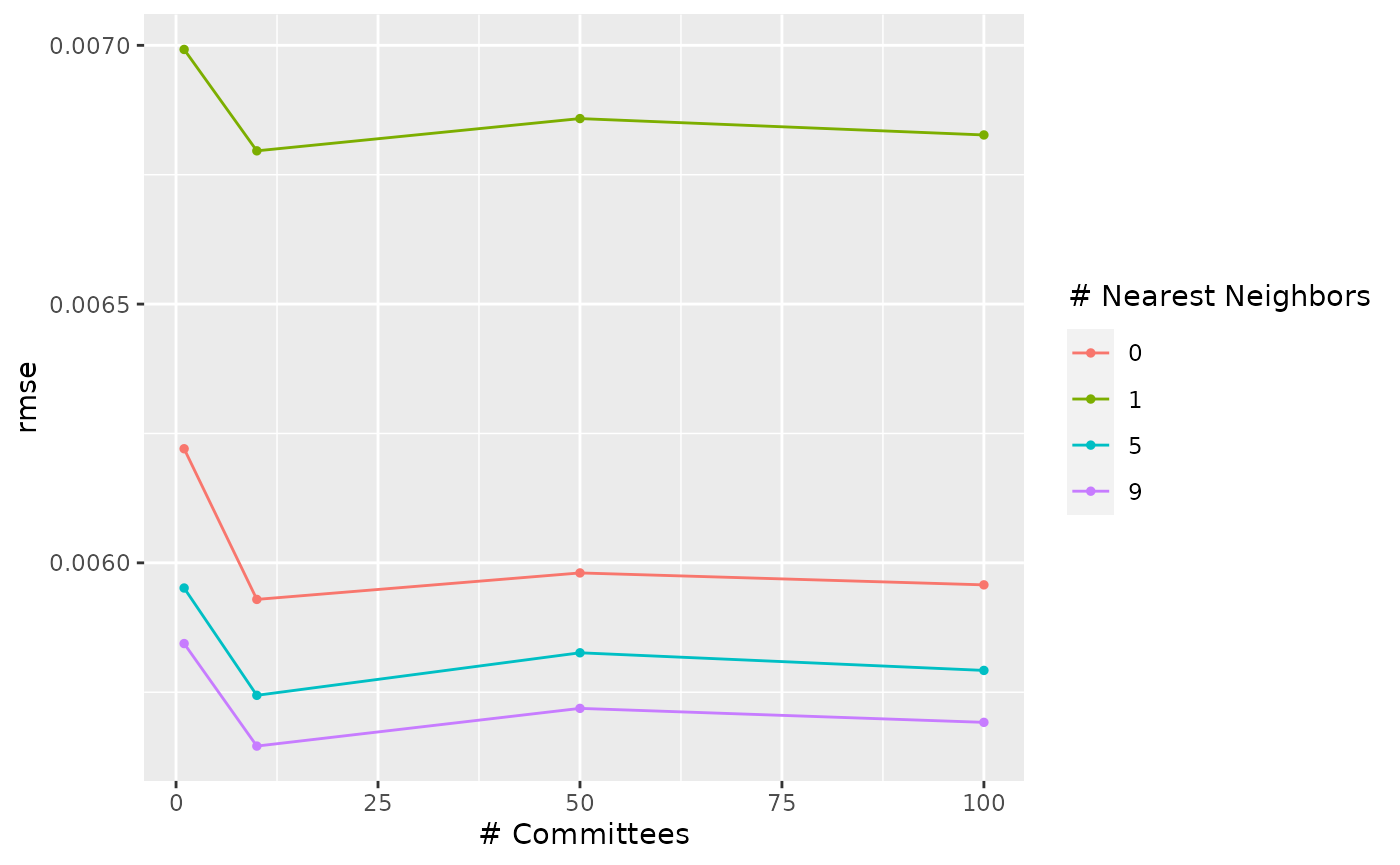
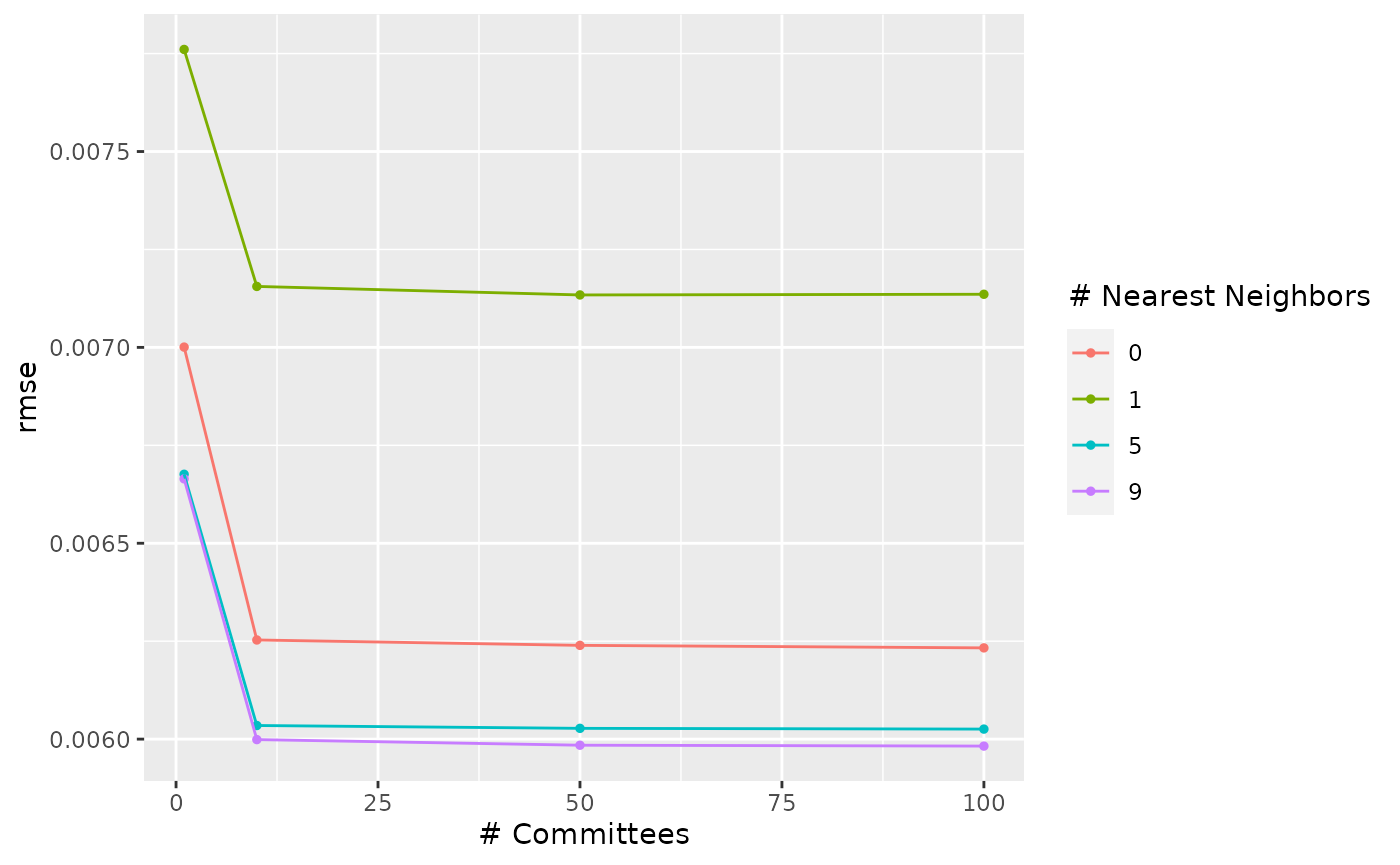
Built site for Cubist: 0.2.3.9000@70c05f2

diff --git a/articles/extras/tuning.html b/articles/extras/tuning.html
@@ -162,7 +162,7 @@
 <div class="sourceCode" id="cb7"><pre class="downlit sourceCode r">
 <code class="sourceCode R"><span class="kw"><a href="https://rdrr.io/r/base/library.html">library</a></span><span class="op">(</span><span class="va"><a href="https://tidymodels.tidymodels.org">tidymodels</a></span><span class="op">)</span></code></pre></div>
 <pre><code>## ── Attaching packages ────────────────────────────────────── tidymodels 0.1.3 ──</code></pre>
-<pre><code>## ✔ broom        0.7.6      ✔ rsample      0.0.9 
+<pre><code>## ✔ broom        0.7.6      ✔ rsample      0.1.0 
 ## ✔ dials        0.0.9      ✔ tibble       3.1.1 
 ## ✔ dplyr        1.0.6      ✔ tidyr        1.1.3 
 ## ✔ infer        0.5.4      ✔ tune         0.1.5 
@@ -199,16 +199,16 @@
 ## # A tibble: 10 x 2
 ##    splits             id    
 ##    &lt;list&gt;             &lt;chr&gt; 
-##  1 &lt;split [1978/221]&gt; Fold01
-##  2 &lt;split [1978/221]&gt; Fold02
-##  3 &lt;split [1978/221]&gt; Fold03
-##  4 &lt;split [1978/221]&gt; Fold04
-##  5 &lt;split [1978/221]&gt; Fold05
-##  6 &lt;split [1979/220]&gt; Fold06
-##  7 &lt;split [1980/219]&gt; Fold07
-##  8 &lt;split [1980/219]&gt; Fold08
-##  9 &lt;split [1981/218]&gt; Fold09
-## 10 &lt;split [1981/218]&gt; Fold10</code></pre>
+##  1 &lt;split [1976/221]&gt; Fold01
+##  2 &lt;split [1976/221]&gt; Fold02
+##  3 &lt;split [1976/221]&gt; Fold03
+##  4 &lt;split [1976/221]&gt; Fold04
+##  5 &lt;split [1977/220]&gt; Fold05
+##  6 &lt;split [1977/220]&gt; Fold06
+##  7 &lt;split [1978/219]&gt; Fold07
+##  8 &lt;split [1978/219]&gt; Fold08
+##  9 &lt;split [1979/218]&gt; Fold09
+## 10 &lt;split [1980/217]&gt; Fold10</code></pre>
 <p>To use this model, we define the <em>model specification object</em> and tag which parameters that we want to tune for this model (with a value of <code>tune()</code>). the package that contains the model functions for rule-based models is called <code>rules</code>; we load that first.</p>
 <div class="sourceCode" id="cb14"><pre class="downlit sourceCode r">
 <code class="sourceCode R"><span class="kw"><a href="https://rdrr.io/r/base/library.html">library</a></span><span class="op">(</span><span class="va"><a href="https://github.com/tidymodels/rules">rules</a></span><span class="op">)</span>
@@ -235,32 +235,32 @@
 ## # A tibble: 10 x 4
 ##    splits             id     .metrics              .notes              
 ##    &lt;list&gt;             &lt;chr&gt;  &lt;list&gt;                &lt;list&gt;              
-##  1 &lt;split [1978/221]&gt; Fold01 &lt;tibble[,6] [32 × 6]&gt; &lt;tibble[,1] [0 × 1]&gt;
-##  2 &lt;split [1978/221]&gt; Fold02 &lt;tibble[,6] [32 × 6]&gt; &lt;tibble[,1] [0 × 1]&gt;
-##  3 &lt;split [1978/221]&gt; Fold03 &lt;tibble[,6] [32 × 6]&gt; &lt;tibble[,1] [0 × 1]&gt;
-##  4 &lt;split [1978/221]&gt; Fold04 &lt;tibble[,6] [32 × 6]&gt; &lt;tibble[,1] [0 × 1]&gt;
-##  5 &lt;split [1978/221]&gt; Fold05 &lt;tibble[,6] [32 × 6]&gt; &lt;tibble[,1] [0 × 1]&gt;
-##  6 &lt;split [1979/220]&gt; Fold06 &lt;tibble[,6] [32 × 6]&gt; &lt;tibble[,1] [0 × 1]&gt;
-##  7 &lt;split [1980/219]&gt; Fold07 &lt;tibble[,6] [32 × 6]&gt; &lt;tibble[,1] [0 × 1]&gt;
-##  8 &lt;split [1980/219]&gt; Fold08 &lt;tibble[,6] [32 × 6]&gt; &lt;tibble[,1] [0 × 1]&gt;
-##  9 &lt;split [1981/218]&gt; Fold09 &lt;tibble[,6] [32 × 6]&gt; &lt;tibble[,1] [0 × 1]&gt;
-## 10 &lt;split [1981/218]&gt; Fold10 &lt;tibble[,6] [32 × 6]&gt; &lt;tibble[,1] [0 × 1]&gt;</code></pre>
+##  1 &lt;split [1976/221]&gt; Fold01 &lt;tibble[,6] [32 × 6]&gt; &lt;tibble[,1] [0 × 1]&gt;
+##  2 &lt;split [1976/221]&gt; Fold02 &lt;tibble[,6] [32 × 6]&gt; &lt;tibble[,1] [0 × 1]&gt;
+##  3 &lt;split [1976/221]&gt; Fold03 &lt;tibble[,6] [32 × 6]&gt; &lt;tibble[,1] [0 × 1]&gt;
+##  4 &lt;split [1976/221]&gt; Fold04 &lt;tibble[,6] [32 × 6]&gt; &lt;tibble[,1] [0 × 1]&gt;
+##  5 &lt;split [1977/220]&gt; Fold05 &lt;tibble[,6] [32 × 6]&gt; &lt;tibble[,1] [0 × 1]&gt;
+##  6 &lt;split [1977/220]&gt; Fold06 &lt;tibble[,6] [32 × 6]&gt; &lt;tibble[,1] [0 × 1]&gt;
+##  7 &lt;split [1978/219]&gt; Fold07 &lt;tibble[,6] [32 × 6]&gt; &lt;tibble[,1] [0 × 1]&gt;
+##  8 &lt;split [1978/219]&gt; Fold08 &lt;tibble[,6] [32 × 6]&gt; &lt;tibble[,1] [0 × 1]&gt;
+##  9 &lt;split [1979/218]&gt; Fold09 &lt;tibble[,6] [32 × 6]&gt; &lt;tibble[,1] [0 × 1]&gt;
+## 10 &lt;split [1980/217]&gt; Fold10 &lt;tibble[,6] [32 × 6]&gt; &lt;tibble[,1] [0 × 1]&gt;</code></pre>
 <p>The results can be sown as a table or a plot:</p>
 <div class="sourceCode" id="cb18"><pre class="downlit sourceCode r">
 <code class="sourceCode R"><span class="fu">collect_metrics</span><span class="op">(</span><span class="va">tm_grid</span><span class="op">)</span></code></pre></div>
 <pre><code>## # A tibble: 32 x 8
 ##    committees neighbors .metric .estimator    mean     n  std_err .config       
 ##         &lt;dbl&gt;     &lt;dbl&gt; &lt;chr&gt;   &lt;chr&gt;        &lt;dbl&gt; &lt;int&gt;    &lt;dbl&gt; &lt;chr&gt;         
-##  1          1         0 rmse    standard   0.00622    10 0.000212 Preprocessor1…
-##  2          1         0 rsq     standard   0.824      10 0.00822  Preprocessor1…
-##  3          1         1 rmse    standard   0.00699    10 0.000177 Preprocessor1…
-##  4          1         1 rsq     standard   0.788      10 0.00706  Preprocessor1…
-##  5          1         5 rmse    standard   0.00595    10 0.000211 Preprocessor1…
-##  6          1         5 rsq     standard   0.840      10 0.00855  Preprocessor1…
-##  7          1         9 rmse    standard   0.00584    10 0.000215 Preprocessor1…
-##  8          1         9 rsq     standard   0.845      10 0.00840  Preprocessor1…
-##  9         10         0 rmse    standard   0.00593    10 0.000297 Preprocessor1…
-## 10         10         0 rsq     standard   0.840      10 0.0121   Preprocessor1…
+##  1          1         0 rmse    standard   0.00700    10 0.000425 Preprocessor1…
+##  2          1         0 rsq     standard   0.778      10 0.0224   Preprocessor1…
+##  3          1         1 rmse    standard   0.00776    10 0.000404 Preprocessor1…
+##  4          1         1 rsq     standard   0.744      10 0.0202   Preprocessor1…
+##  5          1         5 rmse    standard   0.00668    10 0.000403 Preprocessor1…
+##  6          1         5 rsq     standard   0.799      10 0.0210   Preprocessor1…
+##  7          1         9 rmse    standard   0.00666    10 0.000410 Preprocessor1…
+##  8          1         9 rsq     standard   0.800      10 0.0213   Preprocessor1…
+##  9         10         0 rmse    standard   0.00625    10 0.000371 Preprocessor1…
+## 10         10         0 rsq     standard   0.823      10 0.0198   Preprocessor1…
 ## # … with 22 more rows</code></pre>
 <div class="sourceCode" id="cb20"><pre class="downlit sourceCode r">
 <code class="sourceCode R"><span class="fu">autoplot</span><span class="op">(</span><span class="va">tm_grid</span>, metric <span class="op">=</span> <span class="st">"rmse"</span><span class="op">)</span></code></pre></div>
@@ -276,11 +276,11 @@
 <pre><code>## # A tibble: 6 x 1
 ##   .pred
 ##   &lt;dbl&gt;
-## 1 0.716
-## 2 0.728
-## 3 0.727
-## 4 0.725
-## 5 0.722
+## 1 0.723
+## 2 0.725
+## 3 0.720
+## 4 0.759
+## 5 0.744
 ## 6 0.729</code></pre>
 <p>This can be more easily done with <code>last_fit()</code>:</p>
 <div class="sourceCode" id="cb23"><pre class="downlit sourceCode r">
@@ -302,25 +302,25 @@
 <pre><code>## # A tibble: 2 x 4
 ##   .metric .estimator .estimate .config             
 ##   &lt;chr&gt;   &lt;chr&gt;          &lt;dbl&gt; &lt;chr&gt;               
-## 1 rmse    standard     0.00537 Preprocessor1_Model1
-## 2 rsq     standard     0.872   Preprocessor1_Model1</code></pre>
+## 1 rmse    standard     0.00576 Preprocessor1_Model1
+## 2 rsq     standard     0.857   Preprocessor1_Model1</code></pre>
 <div class="sourceCode" id="cb27"><pre class="downlit sourceCode r">
 <code class="sourceCode R"><span class="co"># test set predictions:</span>
 <span class="fu">collect_predictions</span><span class="op">(</span><span class="va">cubist_results</span><span class="op">)</span></code></pre></div>
-<pre><code>## # A tibble: 731 x 5
+<pre><code>## # A tibble: 733 x 5
 ##    id               .pred  .row Sale_Price .config             
 ##    &lt;chr&gt;            &lt;dbl&gt; &lt;int&gt;      &lt;dbl&gt; &lt;chr&gt;               
-##  1 train/test split 0.716     3      0.719 Preprocessor1_Model1
-##  2 train/test split 0.728     4      0.731 Preprocessor1_Model1
-##  3 train/test split 0.727     7      0.727 Preprocessor1_Model1
-##  4 train/test split 0.725    10      0.722 Preprocessor1_Model1
-##  5 train/test split 0.722    14      0.719 Preprocessor1_Model1
-##  6 train/test split 0.729    15      0.726 Preprocessor1_Model1
-##  7 train/test split 0.707    19      0.712 Preprocessor1_Model1
-##  8 train/test split 0.715    25      0.714 Preprocessor1_Model1
-##  9 train/test split 0.723    29      0.721 Preprocessor1_Model1
-## 10 train/test split 0.697    30      0.697 Preprocessor1_Model1
-## # … with 721 more rows</code></pre>
+##  1 train/test split 0.723     5      0.723 Preprocessor1_Model1
+##  2 train/test split 0.725    10      0.722 Preprocessor1_Model1
+##  3 train/test split 0.720    11      0.720 Preprocessor1_Model1
+##  4 train/test split 0.760    16      0.758 Preprocessor1_Model1
+##  5 train/test split 0.744    18      0.748 Preprocessor1_Model1
+##  6 train/test split 0.730    20      0.726 Preprocessor1_Model1
+##  7 train/test split 0.726    23      0.727 Preprocessor1_Model1
+##  8 train/test split 0.708    27      0.708 Preprocessor1_Model1
+##  9 train/test split 0.712    34      0.714 Preprocessor1_Model1
+## 10 train/test split 0.744    37      0.746 Preprocessor1_Model1
+## # … with 723 more rows</code></pre>
 </div>
   </div>
 

diff --git a/articles/cubist.html b/articles/cubist.html
@@ -127,7 +127,7 @@
 ## cubist.default(x = train_pred, y = train_resp)
 ## 
 ## 
-## Cubist [Release 2.07 GPL Edition]  Thu May  6 16:48:55 2021
+## Cubist [Release 2.07 GPL Edition]  Sun May  9 14:01:15 2021
 ## ---------------------------------
 ## 
 ##     Target attribute `outcome'
@@ -309,7 +309,7 @@
 ## cubist.default(x = train_pred, y = train_resp, committees = 3)
 ## 
 ## 
-## Cubist [Release 2.07 GPL Edition]  Thu May  6 16:48:56 2021
+## Cubist [Release 2.07 GPL Edition]  Sun May  9 14:01:15 2021
 ## ---------------------------------
 ## 
 ##     Target attribute `outcome'
@@ -770,7 +770,7 @@
 ## cubist.default(x = train_pred, y = train_resp)
 ## 
 ## 
-## Cubist [Release 2.07 GPL Edition]  Thu May  6 16:48:55 2021
+## Cubist [Release 2.07 GPL Edition]  Sun May  9 14:01:15 2021
 ## ---------------------------------
 ## 
 ##     Target attribute `outcome'

diff --git a/reference/summary.cubist.html b/reference/summary.cubist.html
@@ -194,7 +194,7 @@ modifications be Steve Weston</p>
 #&gt; cubist.default(x = BostonHousing[, -14], y = BostonHousing$medv)
 #&gt; 
 #&gt; 
-#&gt; Cubist [Release 2.07 GPL Edition]  Thu May  6 16:48:53 2021
+#&gt; Cubist [Release 2.07 GPL Edition]  Sun May  9 14:01:13 2021
 #&gt; ---------------------------------
 #&gt; 
 #&gt;     Target attribute `outcome'
